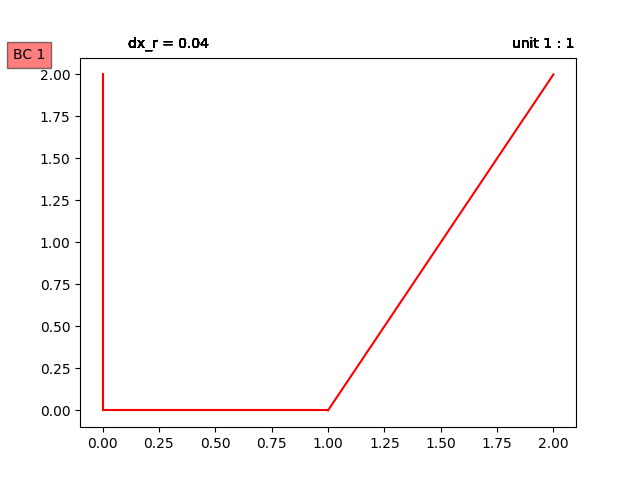
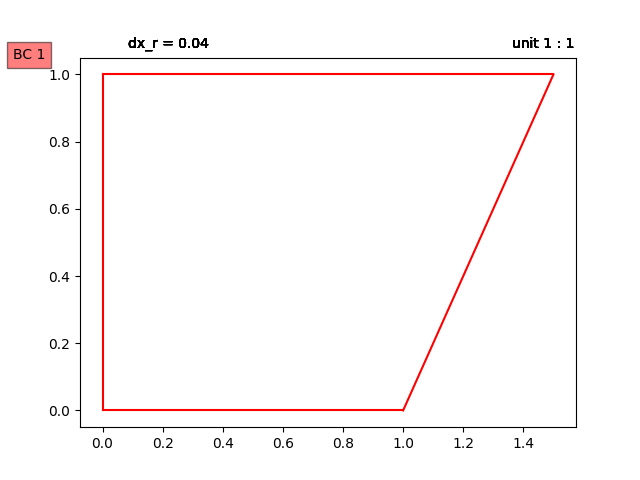
addd additional prsrBdry 4

diff --git a/src/Python/NXtoParticle/NXtoParticle.py b/src/Python/NXtoParticle/NXtoParticle.py
@@ -432,7 +432,7 @@ def fillDomainWParticle2D(x_min, x_max, dx,bdryPolygon, output_file_path, bdry_t
 #Define the main function
 def main():
     root_directory="../../../"
-    ref_directory="examples/Case4/"  #"examples/Case2/" #"src/Python/NXtoParticle/" 
+    ref_directory="examples/Case6/"  #"examples/Case2/" #"src/Python/NXtoParticle/" 
     print("current ref_directory is in: ", ref_directory)        
 
     input_directory="inputCAD/"
